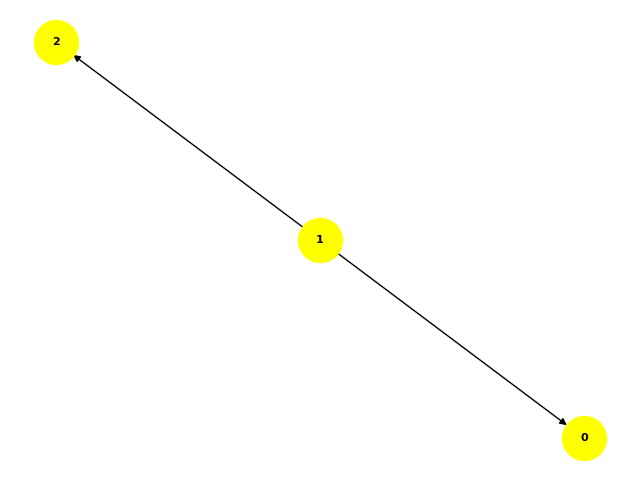
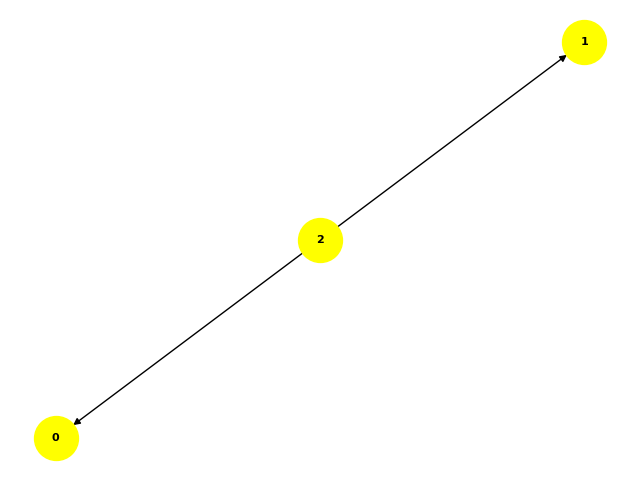
add arrange_A function

diff --git a/utils.py b/utils.py
@@ -1,4 +1,5 @@
 import networkx as nx
+import re
 
 
 def create_G(w, utilities, s):
@@ -66,14 +67,54 @@ def get_category_and_index(item):
     return c, j
 
 
-def get_allocation(n, matching):
+def arrange_categories(allocation, capacities):
+    """
+    :param allocation: the bundle of some agent in some allocation, sorted by categories indices
+    :param capacities: the capacity constraint of each category
+    :return: a list of lists of all the items that the agent gets from each category, 
+                that is also sorted according to the items' indices.
+                The indices representing by the second number in each item name, 
+                i.e. o_c,j --> c is the (common) category, and j is the index. 
+    """
+    start = 0
+    categories = [] 
+    # separate into categories 
+    for s_c in capacities:  # each agent gets exactly s_c items from each category C_c
+        categories.append(allocation[start: start + s_c])
+        start += s_c
+    # sort each category by the items' indices
+    for i in range(len(categories)):
+        categories[i].sort(key = lambda category : list(map(int, re.findall(r'\d+', category)))[1])
+    return categories
+
+
+def arrange_A(n, A, capacities):
+    """
+    Arrange the allocation such that the items in each sub-allocation Ai are arranged in a way 
+    that the categories are arranged by their indices, and also the items in each category.
+    This ensures that equivalent allocations are written in a unique way, according to this order.
+    :param n: the number of agents 
+    :param A: an allocation as a list
+    :param capacities: the capacities for each category
+    :return: the arranged allocation as a list
+    """
+    for agent in range(n):
+        allocation = A[agent]
+        allocation.sort(key = lambda allocation : list(map(int, re.findall(r'\d+', allocation)))[0])
+        categories = arrange_categories(allocation, capacities)
+        A[agent] = [item for sublist in categories for item in sublist]
+    return A
+
+
+def get_allocation(n, matching, capacities):
     # print(matching)
-    A = tuple(list() for _ in range(n))  # an empty allocation in form A = (A1, A2, ..., An)
+    A = list(list() for _ in range(n))  # an empty allocation in form A = (A1, A2, ..., An)
     for match in matching:
         agent, item = recognize_agent_and_item(match)
         A[agent].append(item)
         # print("item ", item, " appended to agent ", agent, " allocation.")
-    return A
+    A = arrange_A(n, A, capacities)
+    return tuple(A)
 
 
 def isEF1_two(first, second, worst, best):

diff --git a/main.py b/main.py
@@ -31,7 +31,7 @@ def algorithm1(I, stopOnEF1=True):
     A = W_maximal_allocation(I, w)  # (A1, A2, ..., An), ∀i, Ai is of type list
     print("A = ", A.A)
     global PREV_NODE
-    key = ' '.join(map(str, A.A))  # TODO: if items indices are different, this should be the same key!
+    key = ' '.join(map(str, A.A))  # Note that this key is unique for each allocation, since we arranged it.
     value, flag = update_allocations_graph(key)  # flag must to be true in the first allocation
     PREV_NODE = value
     if A.is_EF1():
@@ -102,7 +102,7 @@ NODE_COUNT = 0
 PREV_NODE = None
 color_map = []
 
-stopOnEF1 = False
+stopOnEF1 = True
 algorithm1(I, stopOnEF1)
 
 nx.draw(allocations_graph, node_size=1000, font_size=8, font_weight='bold', node_color=color_map, with_labels=True)

diff --git a/Allocation.py b/Allocation.py
@@ -53,7 +53,7 @@ class W_maximal_allocation:
         G, V1, V2 = create_G(w, self.I.utilities, self.I.s)
         self.save_Gw(G, V1, V2)
         matching = nx.max_weight_matching(G, maxcardinality=True)
-        return get_allocation(self.I.n, matching)
+        return get_allocation(self.I.n, matching, self.I.s)
 
 
     def is_EF1(self):
@@ -177,6 +177,9 @@ class W_maximal_allocation:
         oj_idx = self.A[j].index(oj)  # the index of oj in A[j]
         self.A[i][oi_idx] = oj
         self.A[j][oj_idx] = oi
+
+        # arrange the allocation
+        self.A = tuple(arrange_A(self.I.n, list(self.A), self.I.s))
 
         # empty item-pairs list
         self.item_pairs = {}
